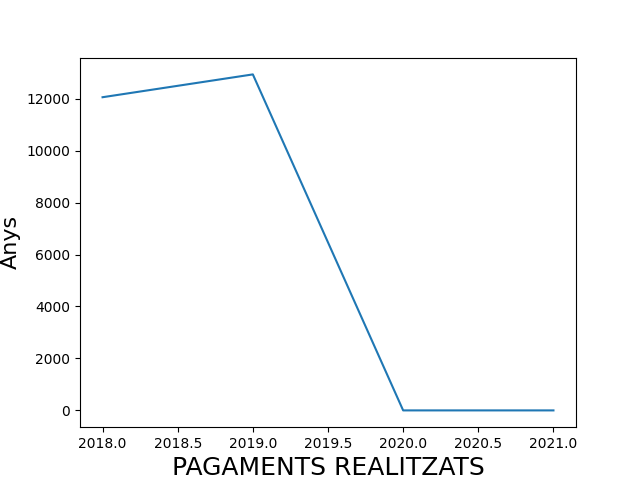
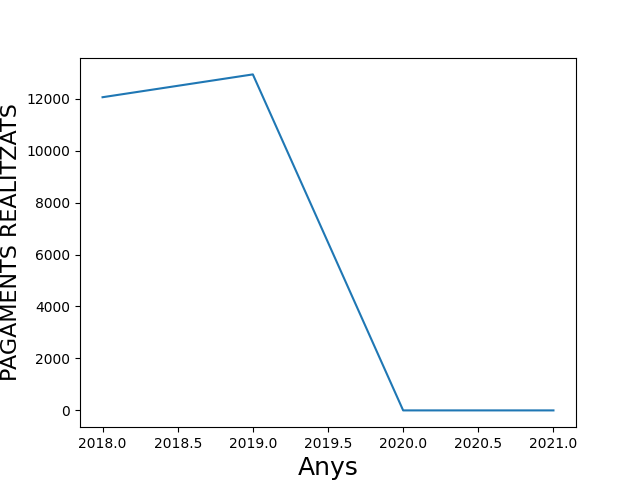
Datos de ejes arreglados

Changed region(s): [[0.25, 0.9375, 0.75, 1.0], [0.0, 0.2188, 0.0312, 0.8125]]

diff --git a/main.py b/main.py
@@ -89,11 +89,10 @@ if __name__ == '__main__':
             r = funcions.getCsvData(values)
             plt.figure()
             plt.plot(r["anys"], r["consultes"])
-            plt.xlabel(values["valorAConsultar"], fontsize=18)
-            plt.ylabel('Anys', fontsize=16)
-            #plt.savefig("./images/" + col + "Reus.png")                       #Si es un windows usar este formato
-            plt.savefig("/Users/guillemgorgoriperez/Desktop/DespesesReus.png") #Si es un macos usar este formato
-            plt.savefig("./images/" + col + "Reus.png")
+            plt.xlabel('Anys', fontsize=18)
+            plt.ylabel(values["valorAConsultar"], fontsize=16)
+            plt.savefig("./images/" + col + "Reus.png")                       #Si es un windows usar este formato
+            #plt.savefig("/Users/guillemgorgoriperez/Desktop/DespesesReus.png") #Si es un macos usar este formato
             print("Gràfic generat a ./images")
             print()
 
@@ -106,10 +105,10 @@ if __name__ == '__main__':
             r = funcions.getCsvData(values)
             plt.figure()
             plt.plot(r["anys"], r["consultes"])
-            plt.xlabel(values["valorAConsultar"], fontsize=18)
-            plt.ylabel('Anys', fontsize=16)
-            #plt.savefig("./images/DespesesReus.png")                          #Si es un windows usar este formato
-            plt.savefig("/Users/guillemgorgoriperez/Desktop/DespesesReus.png") #Si es un macos usar este formato
+            plt.xlabel('Anys', fontsize=18)
+            plt.ylabel(values["valorAConsultar"], fontsize=16)
+            plt.savefig("./images/DespesesReus.png")                          #Si es un windows usar este formato
+            #plt.savefig("/Users/guillemgorgoriperez/Desktop/DespesesReus.png") #Si es un macos usar este formato
             print("Gràfic generat a ./images")
             print()
         
